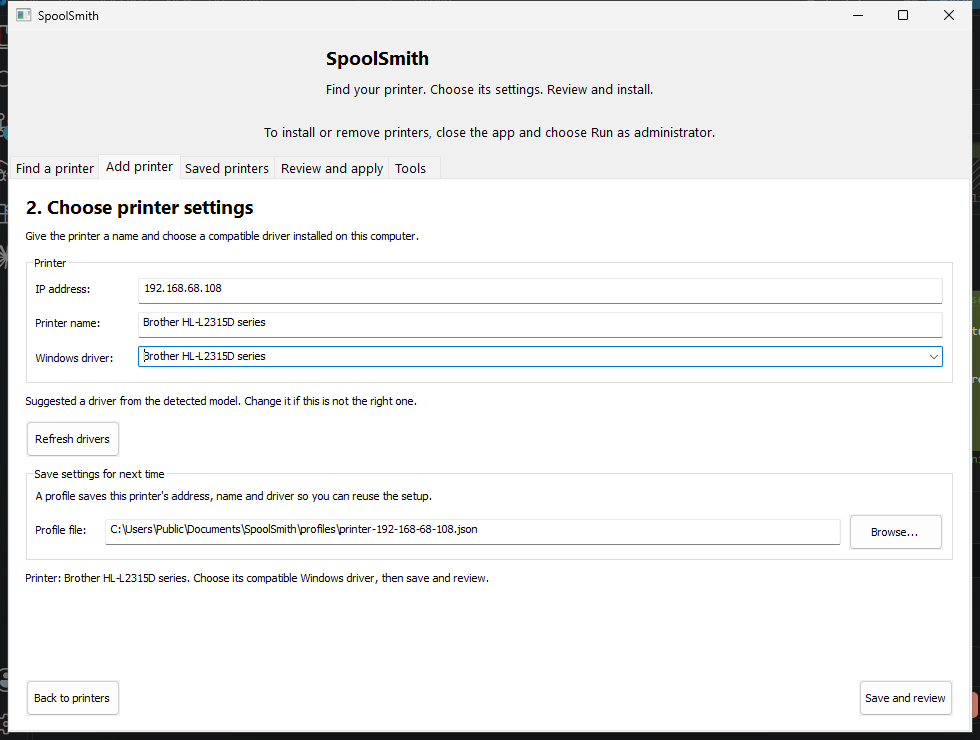
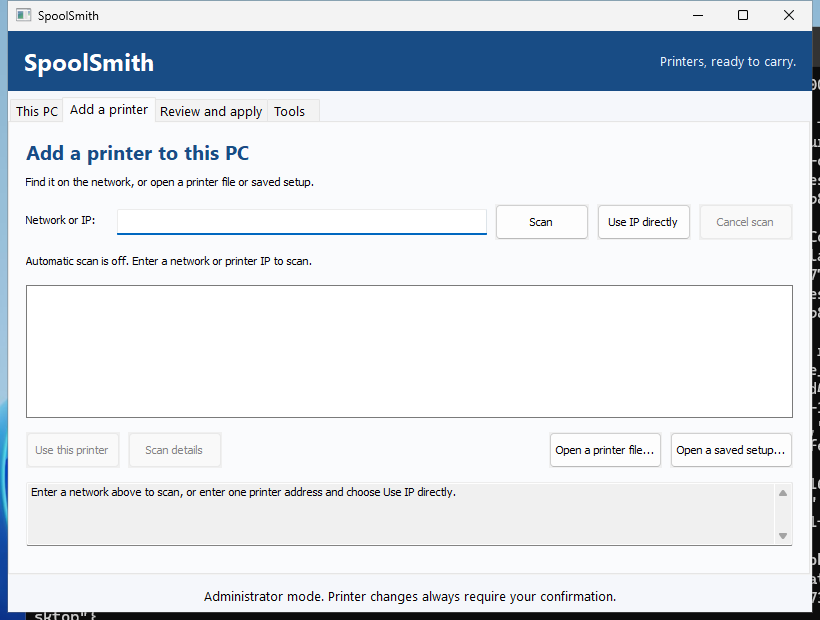
Validate review handoffs by displayed content and refresh release screenshots

diff --git a/docs/index.html b/docs/index.html
@@ -7,7 +7,7 @@
   <meta property="og:title" content="SpoolSmith — A little less printer setup.">
   <meta property="og:description" content="One PC already prints. Copy that setup to the next one — driver included — after reviewing exactly what will change.">
   <meta property="og:url" content="https://spilloid.github.io/spoolsmith/">
-  <meta property="og:image" content="https://spilloid.github.io/spoolsmith/img/gui-find-a-printer.png">
+  <meta property="og:image" content="https://spilloid.github.io/spoolsmith/img/gui-this-pc.png">
   <meta name="theme-color" content="#163d38">
   <title>SpoolSmith — A little less printer setup.</title>
   <link rel="stylesheet" href="site.css">
@@ -53,23 +53,23 @@
     </section>
     <div class="proof wrap"><span class="proof-icon" aria-hidden="true">✓</span><p><strong>From a saved profile to a real printed page.</strong> Discovery, setup, repeat setup, and physical printing verified with a Brother HL-L2315D.</p><a href="#status">What’s supported <span aria-hidden="true">↗</span></a></div>
     <section id="app" class="app-section" aria-labelledby="app-title"><div class="wrap">
-      <div class="section-heading"><div><p class="eyebrow"><span class="status-dot"></span>New in 0.3.0</p><h2 id="app-title">Open it. It already<br>knows <em>where to look.</em></h2></div><p>SpoolSmith now runs as a desktop app. It reads the network this PC is connected to and starts scanning it, so the first thing you see is your own printers — not an empty prompt.</p></div>
+      <div class="section-heading"><div><p class="eyebrow"><span class="status-dot"></span>New in 0.6.0</p><h2 id="app-title">Your printers.<br>Ready to <em>carry.</em></h2></div><p>See what Windows already has, copy a working setup to another PC, or find a new printer. A lighter native interface keeps the settings and the review in reach.</p></div>
       <figure class="shot">
-        <img src="img/gui-find-a-printer.png" alt="SpoolSmith's Find a printer screen. It reports the connected Ethernet network, lists a Brother HL-L2315D found by the scan, and marks it as having saved settings available." width="980" height="740" loading="lazy" decoding="async">
-        <figcaption><span class="status-dot"></span>A printer you have set up before is marked, and the button becomes “Review saved setup”.</figcaption>
+        <img src="img/gui-this-pc.png" alt="SpoolSmith This PC screen with installed Windows printers, copy, change-address and removal actions." width="820" height="620" loading="lazy" decoding="async">
+        <figcaption><span class="status-dot"></span>Windows inventory, with an explanation when a printer cannot be copied.</figcaption>
       </figure>
       <div class="shot-grid">
         <figure class="shot">
-          <a href="img/gui-add-printer.png"><img src="img/gui-add-printer.png" alt="The Choose printer settings screen, with the IP address, printer name and a suggested Windows driver already filled in." width="980" height="740" loading="lazy" decoding="async"></a>
-          <figcaption><h3>A driver name you don’t have to remember</h3><p>The model the printer reports picks out a matching installed driver for you to confirm. You can change it, and the exact name is never guessed at install time.</p></figcaption>
+          <a href="img/gui-add-printer.png"><img src="img/gui-add-printer.png" alt="Add a printer with network scanning, direct-IP setup, and buttons to open printer files and saved setups." width="820" height="620" loading="lazy" decoding="async"></a>
+          <figcaption><h3>Start with the address or the file</h3><p>Scan the network, enter a known IP, or open a copied printer. Saved setups offer editing, local status checks and bulk JSON export and import.</p></figcaption>
         </figure>
         <figure class="shot">
-          <a href="img/gui-saved-printers.png"><img src="img/gui-saved-printers.png" alt="The Saved printers screen listing two saved printers, with the selected printer's address, driver and file shown beside the list." width="980" height="740" loading="lazy" decoding="async"></a>
-          <figcaption><h3>The printers this PC knows</h3><p>Set one up again, update it, or remove its Windows queue. Each is a small JSON file you can copy to the next workstation.</p></figcaption>
+          <a href="img/gui-tools.png"><img src="img/gui-tools.png" alt="Tools screen with read-only device and bundle inspection, a driver catalog and the action log." width="820" height="620" loading="lazy" decoding="async"></a>
+          <figcaption><h3>Keep the evidence close</h3><p>Inspect a printer or verify a copied bundle, explore the catalog, and read the action log without changing Windows.</p></figcaption>
         </figure>
         <figure class="shot">
-          <a href="img/gui-review-and-apply.png"><img src="img/gui-review-and-apply.png" alt="The Review and apply screen, showing the chosen operation, the profile file, and a note that no changes are made until reviewed and confirmed." width="980" height="740" loading="lazy" decoding="async"></a>
-          <figcaption><h3>Nothing happens unannounced</h3><p>Every change is previewed first and applied only after you confirm the plan you were shown. Change any input and the preview has to be run again.</p></figcaption>
+          <a href="img/gui-review-and-apply.png"><img src="img/gui-review-and-apply.png" alt="Review and apply screen, with execution disabled until a change has been previewed." width="820" height="620" loading="lazy" decoding="async"></a>
+          <figcaption><h3>Review before changing Windows</h3><p>Preview the change, inspect the full plan, then confirm. Changed options invalidate the preview; changed plans are rejected at execution.</p></figcaption>
         </figure>
       </div>
     </div></section>
@@ -86,9 +86,9 @@
       <div class="repeat-example"><div class="example-heading"><span class="status-dot"></span>Example · reapplying a saved profile</div><pre><code><span class="prompt">&gt;</span> .\spoolsmith.exe add --profile profiles\office.json</code></pre><div class="result-row"><span>Printer port</span><strong>✓ Unchanged</strong></div><div class="result-row"><span>Office Printer</span><strong>✓ Unchanged</strong></div><p>The same setup, without another queue.</p></div>
     </div></section>
     <section id="start" class="section wrap" aria-labelledby="start-title">
-      <div class="section-heading"><div><p class="eyebrow">Start with one printer</p><h2 id="start-title">Make the next setup easier.</h2></div><p>Run the desktop app, or the same operations from PowerShell. Use a current source build for the workflow below; published releases may have fewer features.</p></div>
+      <div class="section-heading"><div><p class="eyebrow">Start with one printer</p><h2 id="start-title">Make the next setup easier.</h2></div><p>Run the desktop app, or the same operations from PowerShell. The v0.6.0 Windows download includes both the desktop app and the command-line tool.</p></div>
       <div class="start-grid">
-        <aside class="get-app"><span class="small-label">01 / GET SPOOLSMITH</span><h3>A small Windows tool.<br>Your own printer library.</h3><p>Build the current source with Go 1.24 or later — the desktop app and the command-line tool come from the same repository — or check the release notes for the features in a packaged build.</p><a class="button primary" href="https://github.com/spilloid/spoolsmith#install">Build from source <span aria-hidden="true">↗</span></a><a class="text-link" href="https://github.com/spilloid/spoolsmith/releases">Browse releases <span aria-hidden="true">↗</span></a><div class="requirements"><strong>Before you add a printer</strong><p>Run as administrator and have a reachable network printer. Install its compatible Windows driver first, unless you’ve configured a supported local package.</p></div></aside>
+        <aside class="get-app"><span class="small-label">01 / GET SPOOLSMITH</span><h3>A small Windows tool.<br>Your own printer library.</h3><p>Download the Windows ZIP and extract it. Open spoolsmith-gui.exe for the desktop, or use spoolsmith.exe from PowerShell.</p><a class="button primary" href="https://github.com/spilloid/spoolsmith/releases/latest">Download for Windows <span aria-hidden="true">↗</span></a><a class="text-link" href="https://github.com/spilloid/spoolsmith/releases">Browse releases <span aria-hidden="true">↗</span></a><div class="requirements"><strong>Before you add a printer</strong><p>Run as administrator and have a reachable network printer. Install its compatible Windows driver first, unless you’ve configured a supported local package.</p></div></aside>
         <div class="quickstart"><span class="small-label">02 / CHOOSE YOUR STARTING POINT</span>
           <div class="tabs" role="tablist" aria-label="Printer setup starting point"><button id="tab-copy" role="tab" aria-controls="panel-copy" aria-selected="true" tabindex="0">Copy a printer</button><button id="tab-app" role="tab" aria-controls="panel-app" aria-selected="false" tabindex="-1">Desktop app</button><button id="tab-ip" role="tab" aria-controls="panel-ip" aria-selected="false" tabindex="-1">I know the IP</button><button id="tab-discover" role="tab" aria-controls="panel-discover" aria-selected="false" tabindex="-1">Find a printer</button><button id="tab-saved" role="tab" aria-controls="panel-saved" aria-selected="false" tabindex="-1">I have a profile</button></div>
           <div id="panel-copy" role="tabpanel" aria-labelledby="tab-copy" tabindex="0"><h3>One PC has it. Give it to the next.</h3><p>On the PC that already prints, see what it has and copy one queue. Omit the queue name to choose from a numbered list. <code>--include-driver</code> carries the driver files too, and needs an administrator prompt.</p><div class="code-block"><button class="copy" type="button" aria-label="Copy the copy-a-printer commands">Copy</button><pre><code>.\spoolsmith.exe printers
@@ -109,7 +109,7 @@
       </div>
       <noscript><p>The copy guide is shown above. To copy a printer between PCs: run <code>.\spoolsmith.exe printers</code>, then <code>.\spoolsmith.exe copy "Accounting" accounting.ssb --include-driver</code>, move that file to the other PC, and run <code>.\spoolsmith.exe apply accounting.ssb --dry-run</code> followed by <code>.\spoolsmith.exe apply accounting.ssb</code>. To capture a printer directly, use <code>.\spoolsmith.exe profile capture 192.168.1.50 profiles\office.json --name "Office Printer" --driver "EXACT WINDOWS DRIVER NAME"</code>, discover printers with <code>.\spoolsmith.exe discover 192.168.1.0/24</code> using your own subnet, and reuse a profile with <code>.\spoolsmith.exe add --profile profiles\office.json</code>.</p></noscript>
     </section>
-    <section id="status" class="section wrap status-section" aria-labelledby="status-title"><div><p class="eyebrow">Where we are today</p><h2 id="status-title">Small start.<br>Useful already.</h2><p>SpoolSmith is in active development. Copying a printer between PCs works and has been run against real hardware; broad automatic driver setup is still ahead.</p><a class="text-link" href="https://github.com/spilloid/spoolsmith/blob/main/docs/copy-a-printer.md">Read the copy guide <span aria-hidden="true">↗</span></a></div><div class="status-list"><article><span class="tag">Released in v0.5.0</span><h3>Copy a printer between PCs</h3><p>Read a working queue off one PC, carry it — with its driver files — in a single file, and apply it on another after reviewing the plan. Verified on Windows 11: a 115-file Brother package exported, bundled, hash-checked, then staged and registered on a machine that had no such driver.</p></article><article><span class="tag">Released in v0.5.0</span><h3>Working away from the printer</h3><p>Provision a queue before the printer is reachable with <code>--offline</code>. The plan states plainly that live identity was not checked. <code>repoint</code> moves an existing queue to a new address without disturbing its name or driver.</p></article><article><span class="tag">Verified on hardware</span><h3>Brother HL-L2315D</h3><p>Discovery and queue setup worked. A second add left the queue and port unchanged. The operator sent a test print and watched it work. The screenshots above show the earlier v0.5.0 interface on a real network.</p></article><article><span class="tag">Released in v0.6.0</span><h3>The desktop app catches up</h3><p>See installed printers, copy and apply printer files, change addresses, check local status and use offline setup from the desktop. Export and import all saved JSON setups together. A lighter layout and blue accents keep the review step easy to find. Intune packaging remains in source, outside the release.</p></article></div></section>
+    <section id="status" class="section wrap status-section" aria-labelledby="status-title"><div><p class="eyebrow">Where we are today</p><h2 id="status-title">Small start.<br>Useful already.</h2><p>SpoolSmith is in active development. Copying a printer between PCs works and has been run against real hardware; broad automatic driver setup is still ahead.</p><a class="text-link" href="https://github.com/spilloid/spoolsmith/blob/main/docs/copy-a-printer.md">Read the copy guide <span aria-hidden="true">↗</span></a></div><div class="status-list"><article><span class="tag">Released in v0.5.0</span><h3>Copy a printer between PCs</h3><p>Read a working queue off one PC, carry it — with its driver files — in a single file, and apply it on another after reviewing the plan. Verified on Windows 11: a 115-file Brother package exported, bundled, hash-checked, then staged and registered on a machine that had no such driver.</p></article><article><span class="tag">Released in v0.5.0</span><h3>Working away from the printer</h3><p>Provision a queue before the printer is reachable with <code>--offline</code>. The plan states plainly that live identity was not checked. <code>repoint</code> moves an existing queue to a new address without disturbing its name or driver.</p></article><article><span class="tag">Verified on hardware</span><h3>Brother HL-L2315D</h3><p>Discovery and queue setup worked. A second add left the queue and port unchanged. The operator sent a test print and watched it work. The screenshots above come from the v0.6.0 desktop automation run; hardware validation is recorded separately.</p></article><article><span class="tag">Released in v0.6.0</span><h3>The desktop app catches up</h3><p>See installed printers, copy and apply printer files, change addresses, check local status and use offline setup from the desktop. Export and import all saved JSON setups together. A lighter layout and blue accents keep the review step easy to find. Intune packaging remains in source, outside the release.</p></article></div></section>
     <section class="closing wrap"><p class="eyebrow">Yours to keep, inspect, and improve</p><h2>A few saved printers today.<br>A shorter setup tomorrow.</h2><p>Free, MIT-licensed software for people who do the printer setup.</p><a class="button primary" href="#start">Start your printer library <span aria-hidden="true">↗</span></a></section>
   </main>
   <footer class="wrap"><a class="brand" href="#">SpoolSmith<span class="brand-dot">.</span></a><span>A Spillers Technology project</span><div><a href="https://github.com/spilloid/spoolsmith">Source</a><a href="https://github.com/spilloid/spoolsmith/issues">Feedback</a><a href="https://github.com/spilloid/spoolsmith/blob/main/LICENSE">MIT license</a></div></footer>

diff --git a/test/gui/SpoolSmithGui.Tests/FunctionalTests.cs b/test/gui/SpoolSmithGui.Tests/FunctionalTests.cs
@@ -181,8 +181,10 @@ public sealed class FunctionalTests : IDisposable
         var dialog = OpenSavedSetups();
         Assert.Contains("Test office printer", Find(dialog, "saved-detail").AsTextBox().Text);
         FindButton(dialog, action).Invoke();
-        try { WaitUntil(() => !IsHidden("review-summary"), "Review did not open."); }
+        try { WaitUntil(() => !IsHidden("mutate-output"), "Review did not open."); }
         catch { _fixture.MainWindow.CaptureToFile(Path.Combine(_fixture.RepoRoot,"dist","review-handoff-failure.png")); throw; }
+        Assert.Contains(_fixture.MainWindow.FindAllDescendants(cf => cf.ByControlType(ControlType.Text)),
+            label => label.Name.Contains("Test office printer", StringComparison.Ordinal) && !label.IsOffscreen);
         Assert.False(FindButton(_fixture.MainWindow, applyCaption).IsEnabled);
         Assert.True(FindButton(_fixture.MainWindow, "Preview changes").IsEnabled);
     }

diff --git a/docs/validation/2026-09-16-gui-release.md b/docs/validation/2026-09-16-gui-release.md
@@ -1,0 +1,50 @@
+# v0.6.0 desktop release validation
+
+The release continues Claude's uncommitted four-tab GUI work and includes the two
+workspace TODO requests: bulk JSON transfer and a refreshed native appearance.
+
+## Checks
+
+- Native Linux `go build ./...`, `go vet ./...`, `go test ./... -count=1` passed.
+- Windows cross-build and vet passed locally.
+- GitHub CI passed on both Ubuntu and Windows, including native Windows PowerShell
+  tests and compilation of the FlaUI desktop suite.
+- The manual Desktop validation workflow runs the real executable with FlaUI and
+  collects TRX results and real screenshots. It uses a hosted Windows desktop,
+  fixture profiles, and loopback; it never confirms a Windows printer mutation.
+- New core tests cover full-property collection round trips, filename collisions,
+  traversal/reserved filenames, malformed data and invalid profiles. CLI coverage
+  exercises export followed by import. Address-change execution rejects changed
+  drivers and original ports after preview.
+
+## Findings during GUI validation
+
+1. At minimum size, the expanded setup form put Save and review below the window.
+   Discovery now collapses while settings are edited; Back to discovery restores it.
+2. Reattaching the main tab subtree had moved it after the footer in layout order.
+   Its original position is now preserved, with a full-width blue header.
+3. The initial tests searched only top-level windows for an owned modal dialog.
+   They now also inspect the main window's modal windows.
+4. The review handoff tests waited for a static accessibility label name, but the
+   label exposes its updated sentence. The failure screenshot showed the correct
+   selected review tab, printer name and action. The tests now wait for the stable
+   output control and assert the actual summary text and disabled action button.
+5. Dialog subtrees receive explicit control-ID attachment, matching the main
+   window's existing workaround for nested native controls.
+
+The first run passed 19/26 checks; the second passed 23/26. The third passed 24/27,
+including direct-IP layout, dialog close, and an offline profile preview that
+reports the absent driver while leaving Apply disabled. Its three remaining
+failures were the handoff test lookup described above, not a failure to navigate.
+
+## Boundaries
+
+These checks do not constitute a new physical-printer pilot. The previous v0.5.0
+Brother copy/staging evidence remains in `2026-09-15-copy-workflow.md`. No physical
+print or live address-change mutation was performed for v0.6.0. No Intune tenant
+was used, and Intune remains held out of the shipped surfaces.
+
+The operator's Windows VM was reachable, but rejected SSH public-key authentication;
+the hosted desktop workflow supplied the UI evidence for this release. Screenshots
+on the product site come from that workflow and contain only the hosted runner's
+Microsoft Print to PDF inventory, empty discovery and read-only screens.
